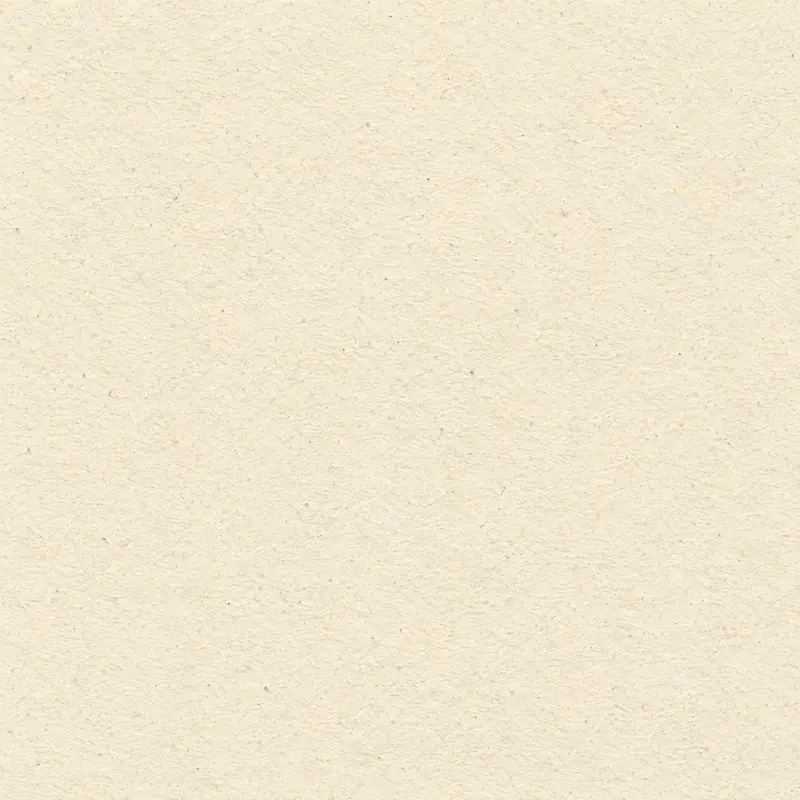
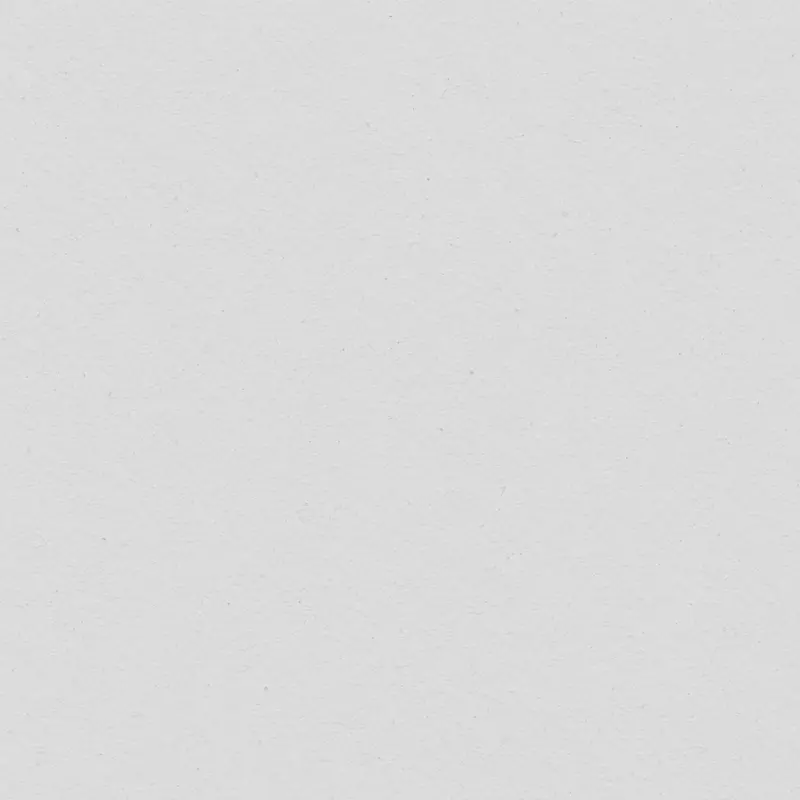
Rođendanske novine: white newsprint instead of beige

diff --git a/src/main.js b/src/main.js
@@ -359,7 +359,7 @@ const T=[
  {id:"p_plane",tier:"premium",cat:"first",layout:"plane",exp:"plane",photos:true,art:"plcard",motif:"art",kind:"plane",name:["First Flight","Prvi let"],tag:["A first birthday for a little pilot: guests tear their boarding pass to take off, flight details of the birth, first-year route, photos in plane windows and a countdown to take-off","Prvi rođendan za malog pilota: gost otkida kartu za ukrcavanje i poleće, podaci o letu od rođenja, ruta prve godine, fotografije u prozorima aviona i odbrojavanje do poletanja"],pt:9,pb:9,pl:13,pr:13,pal:{bg:"#FBF6EC",bg2:"#DCE8F2",ink:"#3E5A78",accent:"#B5643C",soft:"#E8F0F6",x1:"#B5643C",x2:"#FFFFFF",x3:"#000000"},font:fnt("'Fredoka',sans-serif","'Caveat',cursive","'Quicksand',sans-serif")},
  {id:"p_honey",tier:"premium",cat:"first",layout:"honey",exp:"honey",photos:true,art:"hycard",motif:"art",kind:"honey",name:["Little Bee","Mala pčelica"],tag:["A first birthday with a little bee: she wakes on a daisy and flies you into the invitation, birth details, first-year moments, photos and a countdown to the party","Prvi rođendan sa malom pčelicom: budi se na cvetu i odvodi vas do pozivnice, podaci o rođenju, prvi trenuci, fotografije i odbrojavanje do žurke"],pt:9,pb:9,pl:13,pr:13,pal:{bg:"#FBF4E3",bg2:"#F3E2B8",ink:"#5A3E1E",accent:"#C98A1B",soft:"#F6E7C1",x1:"#C98A1B",x2:"#FFFFFF",x3:"#000000"},font:fnt("'Playfair Display',serif","'Parisienne',cursive","'Quicksand',sans-serif")},
  {id:"p_dino",tier:"premium",cat:"first",layout:"dino",exp:"dino",photos:true,art:"pdcard",motif:"art",kind:"bas",name:["Little Dino","Mali dino"],tag:["A first birthday for a little dino: tap the egg until it hatches, jungle leaves sweep in the invitation, then birth details, a trail of first-year footprints, photos and music","Prvi rođendan za malog dinosaurusa: kucnite jaje dok se ne izlegne, lišće džungle donosi pozivnicu, a zatim podaci o rođenju, tragovi prve godine, fotografije i muzika"],pt:19,pb:62,pl:11,pr:11,pal:{bg:"#F6F2E2",bg2:"#E4ECD8",ink:"#34452F",accent:"#4F7A45",soft:"#E4ECD8",x1:"#C9A46A",x2:"#FFFFFF",x3:"#000000"},font:fnt("'Fredoka',sans-serif","'Caveat',cursive","'Quicksand',sans-serif")},
- {id:"p_news",tier:"premium",cat:"birthday",layout:"eighteen",exp:"news",photos:true,motif:"art",kind:"bas",fields:["name","tagline","headline","message","date","time","venue","address","rsvpBy","photo","photo2","photo3","photo4","dayPlan","dressCode","hosts"],labels:{tagline:["Script line over the headline","Red u rukopisu preko naslova"],headline:["Headline under the photo","Naslov ispod fotografije"],message:["The story","Tekst vesti"],photo:["Front page photo","Glavna fotografija na naslovnoj strani"],photo2:["Small front page photo","Mala fotografija na naslovnoj strani"],photo3:["Archive photo 1","Fotografija iz arhive 1"],photo4:["Archive photo 2","Fotografija iz arhive 2"],hosts:["Editor in chief (signature)","Glavni urednik (potpis)"]},def:{en:{name:"Milica",tagline:"It's party time",headline:"Cheers to the birthday girl!",message:"We've planned **an unforgettable night** filled with _good vibes, music, laughter_ and all the birthday magic! From _dancing_ to _delicious bites_, come ready to **celebrate**, snap pics and **make memories** that last. It's going to be _that_ kind of party.",date:"2027-02-17",time:"20:00",venue:"Grand Hall",address:"Bulevar oslobođenja 56, Novi Sad",rsvpBy:"2027-02-10",photo:"",photo2:"",photo3:"",photo4:"",dayPlan:"20:00 Welcome champagne\n21:00 Dinner\n22:30 Cake and a toast\n23:00 Dancing until dawn",dressCode:"Black and white, with a little sparkle",hosts:"Milica and friends"},sr:{name:"Milica",tagline:"Vreme je za žurku",headline:"Živela slavljenica!",message:"Spremili smo **nezaboravno veče** uz _dobru muziku, smeh_ i svu rođendansku čaroliju! Od _plesa_ do _slatkih zalogaja_, dođite spremni da **slavite**, slikate se i **pravite uspomene**. Biće to _ona_ žurka.",date:"2027-02-17",time:"20:00",venue:"Grand sala",address:"Bulevar oslobođenja 56, Novi Sad",rsvpBy:"2027-02-10",photo:"",photo2:"",photo3:"",photo4:"",dayPlan:"20:00 Doček uz šampanjac\n21:00 Večera\n22:30 Torta i zdravica\n23:00 Ples do zore",dressCode:"Crno-belo, uz malo sjaja",hosts:"Milica i društvo"}},name:["The Birthday Times","Rođendanske novine"],tag:["A birthday special edition: the newspaper spins in like an old film headline, then a front page with your photos, the story, the programme, an archive of photos, a countdown and music","Specijalno rođendansko izdanje: novine se zavrte kao u starim filmovima, a zatim naslovna strana sa vašim fotografijama, vest, program večeri, arhiva fotografija, odbrojavanje i muzika"],pt:4.5,pb:4,pl:6,pr:6,pal:{bg:"#EFE9DD",bg2:"#E4DCCB",ink:"#141414",accent:"#B3221E",soft:"#E4DCCB",x1:"#141414",x2:"#FFFFFF",x3:"#000000"},font:fnt("'Playfair Display',serif","'Great Vibes',cursive","'Lora',serif")},
+ {id:"p_news",tier:"premium",cat:"birthday",layout:"eighteen",exp:"news",photos:true,motif:"art",kind:"bas",fields:["name","tagline","headline","message","date","time","venue","address","rsvpBy","photo","photo2","photo3","photo4","dayPlan","dressCode","hosts"],labels:{tagline:["Script line over the headline","Red u rukopisu preko naslova"],headline:["Headline under the photo","Naslov ispod fotografije"],message:["The story","Tekst vesti"],photo:["Front page photo","Glavna fotografija na naslovnoj strani"],photo2:["Small front page photo","Mala fotografija na naslovnoj strani"],photo3:["Archive photo 1","Fotografija iz arhive 1"],photo4:["Archive photo 2","Fotografija iz arhive 2"],hosts:["Editor in chief (signature)","Glavni urednik (potpis)"]},def:{en:{name:"Milica",tagline:"It's party time",headline:"Cheers to the birthday girl!",message:"We've planned **an unforgettable night** filled with _good vibes, music, laughter_ and all the birthday magic! From _dancing_ to _delicious bites_, come ready to **celebrate**, snap pics and **make memories** that last. It's going to be _that_ kind of party.",date:"2027-02-17",time:"20:00",venue:"Grand Hall",address:"Bulevar oslobođenja 56, Novi Sad",rsvpBy:"2027-02-10",photo:"",photo2:"",photo3:"",photo4:"",dayPlan:"20:00 Welcome champagne\n21:00 Dinner\n22:30 Cake and a toast\n23:00 Dancing until dawn",dressCode:"Black and white, with a little sparkle",hosts:"Milica and friends"},sr:{name:"Milica",tagline:"Vreme je za žurku",headline:"Živela slavljenica!",message:"Spremili smo **nezaboravno veče** uz _dobru muziku, smeh_ i svu rođendansku čaroliju! Od _plesa_ do _slatkih zalogaja_, dođite spremni da **slavite**, slikate se i **pravite uspomene**. Biće to _ona_ žurka.",date:"2027-02-17",time:"20:00",venue:"Grand sala",address:"Bulevar oslobođenja 56, Novi Sad",rsvpBy:"2027-02-10",photo:"",photo2:"",photo3:"",photo4:"",dayPlan:"20:00 Doček uz šampanjac\n21:00 Večera\n22:30 Torta i zdravica\n23:00 Ples do zore",dressCode:"Crno-belo, uz malo sjaja",hosts:"Milica i društvo"}},name:["The Birthday Times","Rođendanske novine"],tag:["A birthday special edition: the newspaper spins in like an old film headline, then a front page with your photos, the story, the programme, an archive of photos, a countdown and music","Specijalno rođendansko izdanje: novine se zavrte kao u starim filmovima, a zatim naslovna strana sa vašim fotografijama, vest, program večeri, arhiva fotografija, odbrojavanje i muzika"],pt:4.5,pb:4,pl:6,pr:6,pal:{bg:"#FBFBFA",bg2:"#ECECEA",ink:"#141414",accent:"#B3221E",soft:"#ECECEA",x1:"#141414",x2:"#FFFFFF",x3:"#000000"},font:fnt("'Playfair Display',serif","'Great Vibes',cursive","'Lora',serif")},
  {id:"p_gold",tier:"premium",cat:"other",layout:"gold",exp:"gold",motif:"art",kind:"gold",name:["Gold Record","Zlatna ploča"],tag:["An anniversary on a gold record: guests drop the needle on a 3D turntable and your years together spin up, with your story as side A","Godišnjica na zlatnoj ploči: gost spusti iglu na 3D gramofon i vaše godine zajedno se zavrte, uz vašu priču kao stranu A"],pt:8,pb:8,pl:10,pr:10,pal:{bg:"#1C0D10",bg2:"#3A1520",ink:"#F3E3BC",accent:"#E8C77E",soft:"#4E0F1B",x1:"#E8C77E",x2:"#FFFFFF",x3:"#000000"},font:fnt("'Bodoni Moda',serif","'Pinyon Script',cursive","'Jost',sans-serif")},
  {id:"p_balloon",tier:"premium",cat:"birthday",layout:"balloon",exp:"balloon",motif:"art",kind:"balloon",name:["Balloon Party","Baloni"],tag:["Guests pop 3D balloons to open the invitation, with confetti, music, the party plan and a countdown","Gost pucka 3D balone da otvori pozivnicu, uz konfete, muziku, plan žurke i odbrojavanje"],pt:8,pb:8,pl:10,pr:10,pal:{bg:"#FFF6F1",bg2:"#FCE3EA",ink:"#3D3355",accent:"#F07A98",soft:"#FCE3EA",x1:"#FFCB6B",x2:"#8FD3C1",x3:"#9EC2F7"},font:fnt("'Fredoka',sans-serif","'Fredoka',sans-serif","'Nunito',sans-serif")},
  {id:"p_sky",tier:"premium",cat:"wedding",layout:"sky",exp:"sky",motif:"art",kind:"sky",name:["Starry Night","Zvezdana noć"],tag:["A live night sky: guests touch the stars and they gather into your initials, with your story, programme and music","Živo noćno nebo: gost dodirne zvezde i one se slože u vaše inicijale, uz vašu priču, program i muziku"],pt:8,pb:8,pl:10,pr:10,pal:{bg:"#070B1A",bg2:"#151C3D",ink:"#EEF0FF",accent:"#E8C77E",soft:"#1B2347",x1:"#E8C77E",x2:"#FFFFFF",x3:"#000000"},font:fnt("'Cormorant Garamond',serif","'Pinyon Script',cursive","'Jost',sans-serif")},

diff --git a/src/styles/news.css b/src/styles/news.css
@@ -1,5 +1,5 @@
 /* Rođendanske novine · premium birthday newspaper: the paper spins in like an old film headline, then the special edition reads like a newspaper */
-.nz{--ink:#141414;--grey:#4a4744;--red:#B3221E;--paper:#EFE9DD;--cw:min(88vw,430px,calc(68svh * .667));position:relative;color:var(--ink);background:linear-gradient(rgba(239,233,221,.55),rgba(239,233,221,.55)),var(--a-nzpaper) 0 0/560px repeat,var(--paper);font-family:'Lora',serif;overflow-x:clip;min-height:100svh}
+.nz{--ink:#141414;--grey:#4a4744;--red:#B3221E;--paper:#FAFAF9;--cw:min(88vw,430px,calc(68svh * .667));position:relative;color:var(--ink);background:linear-gradient(rgba(255,255,255,.62),rgba(255,255,255,.62)),var(--a-nzpaper) 0 0/560px repeat,var(--paper);font-family:'Lora',serif;overflow-x:clip;min-height:100svh}
 .view:has(> .nz){transform:none!important;animation:none!important;opacity:1!important}
 .nz .vx-top{position:absolute;top:12px;right:12px;z-index:61}
 /* the page is laid out (hidden) while the paper spins in, so it appears without a stall; the card waits to animate until then */
@@ -55,7 +55,7 @@
 .nz-lead b{font-weight:700}
 .nz-by{margin:18px auto 0;max-width:620px;text-align:right;font:italic 400 15px 'Lora',serif;color:var(--grey)}
 .nz-by b{font-style:normal;font-weight:700;color:var(--ink)}
-.nz-ad{position:relative;max-width:520px;margin:0 auto;padding:34px 22px 30px;background:#F7F3EA;border:3px solid var(--ink);outline:1px solid var(--ink);outline-offset:-9px;box-shadow:8px 8px 0 var(--ink)}
+.nz-ad{position:relative;max-width:520px;margin:0 auto;padding:34px 22px 30px;background:#FFFFFF;border:3px solid var(--ink);outline:1px solid var(--ink);outline-offset:-9px;box-shadow:8px 8px 0 var(--ink)}
 .nz-adk{display:inline-block;margin:0 0 12px;padding:5px 12px;background:var(--ink);color:#f3ece0;font:400 15px/1 'Bebas Neue',sans-serif;letter-spacing:.24em}
 .nz-ad h3{margin:0 0 14px;font:700 clamp(30px,7.6vw,40px)/1.05 'Playfair Display',serif}
 .nz-wd{margin:0;font:400 18px/1 'Bebas Neue',sans-serif;letter-spacing:.24em;color:var(--red)}
@@ -74,16 +74,16 @@
 .nz-fash{max-width:520px;margin:0 auto;padding:28px 22px;border-block:3px double var(--ink)}
 .nz-dc{margin:4px 0 0;font:italic 500 clamp(24px,6.6vw,32px)/1.25 'Playfair Display',serif}
 .nz-gal{display:grid;grid-template-columns:1fr 1fr;gap:18px;margin-top:20px}
-.nz-gal figure{margin:0;padding:10px 10px 8px;background:#F7F3EA;box-shadow:0 14px 26px -16px rgba(0,0,0,.55);rotate:-1.6deg}
+.nz-gal figure{margin:0;padding:10px 10px 8px;background:#FFFFFF;box-shadow:0 14px 26px -16px rgba(0,0,0,.55);rotate:-1.6deg}
 .nz-gal figure:nth-child(2){rotate:1.8deg;translate:0 18px}
 .nz-gal span{position:relative;display:block;aspect-ratio:4/5;background:#222 center/cover no-repeat;filter:grayscale(1) contrast(1.12)}
 .nz-gal span::after{content:"";position:absolute;inset:0;background:radial-gradient(rgba(0,0,0,.18) 30%,transparent 33%) 0 0/4px 4px;mix-blend-mode:multiply;opacity:.55}
 .nz-gal figcaption{margin-top:8px;text-align:left;font:italic 400 13px 'Lora',serif;color:var(--grey)}
 .nz-count{display:flex;justify-content:center;gap:10px;margin-top:16px}
-.nz-count>div{flex:1;max-width:96px;padding:14px 4px 12px;background:#F7F3EA;border:2px solid var(--ink);box-shadow:4px 4px 0 var(--ink)}
+.nz-count>div{flex:1;max-width:96px;padding:14px 4px 12px;background:#FFFFFF;border:2px solid var(--ink);box-shadow:4px 4px 0 var(--ink)}
 .nz-count b{display:block;font:500 clamp(28px,7.6vw,38px)/1 'Bodoni Moda',serif;font-variant-numeric:tabular-nums}
 .nz-count span{display:block;margin-top:6px;font:400 13px/1 'Bebas Neue',sans-serif;letter-spacing:.18em;color:var(--red)}
-.nz .nz-rsvp{max-width:560px;margin:0 auto;text-align:left;background:#F7F3EA;border:3px solid var(--ink);border-radius:0;box-shadow:8px 8px 0 var(--ink)}
+.nz .nz-rsvp{max-width:560px;margin:0 auto;text-align:left;background:#FFFFFF;border:3px solid var(--ink);border-radius:0;box-shadow:8px 8px 0 var(--ink)}
 .nz .nz-rsvp .kicker{color:var(--red);font-family:'Bebas Neue',sans-serif;font-size:16px;letter-spacing:.26em}
 .nz .nz-rsvp h2{font-family:'Playfair Display',serif;font-weight:700;color:var(--ink)}
 .nz .nz-rsvp :is(input,textarea){border-radius:0;border-color:rgba(20,20,20,.4);background:#fff}
@@ -99,7 +99,7 @@
 .nz.io .rv.in{opacity:1;transform:none}
 .nz.io :is(.nz-plan,.nz-gal) .rv{transition-delay:calc(var(--i,0)*120ms)}
 .nz.io .nz-gal figure.rv:nth-child(2).in{transform:none}
-.nz-music{position:fixed;left:14px;right:auto;bottom:14px;z-index:40;display:inline-flex;align-items:center;gap:8px;padding:10px 16px;border:2px solid var(--ink);border-radius:0;background:rgba(247,243,234,.94);color:var(--ink);font:400 16px/1 'Bebas Neue',sans-serif;letter-spacing:.14em;cursor:pointer;box-shadow:4px 4px 0 var(--ink)}
+.nz-music{position:fixed;left:14px;right:auto;bottom:14px;z-index:40;display:inline-flex;align-items:center;gap:8px;padding:10px 16px;border:2px solid var(--ink);border-radius:0;background:rgba(255,255,255,.95);color:var(--ink);font:400 16px/1 'Bebas Neue',sans-serif;letter-spacing:.14em;cursor:pointer;box-shadow:4px 4px 0 var(--ink)}
 .nz-music .d{width:11px;height:11px;border-radius:50%;background:var(--red)}
 .nz.playing .nz-music .d{animation:bwBeat 1s ease-in-out infinite}
 .nz.pv .nz-music{position:absolute;top:14px;bottom:auto}
@@ -107,6 +107,7 @@
 @media (prefers-reduced-motion:reduce){.nz-paper,.nz-go,.nz-tick>div{animation:none!important}}
 
 /* ---------- the front-page card ---------- */
+.inv.tid-p_news{background:linear-gradient(rgba(255,255,255,.68),rgba(255,255,255,.68)),var(--a-nzpaper) 0 0/70cqw repeat,#FBFBFA}
 .tid-p_news .inv-body{justify-content:flex-start!important;align-items:stretch!important;color:#141414}
 .tid-p_news .nc-mast{display:block}
 .tid-p_news .nc-mast>i{display:block;height:1.1cqw;border-top:.75cqw solid #141414;border-bottom:.22cqw solid #141414}
